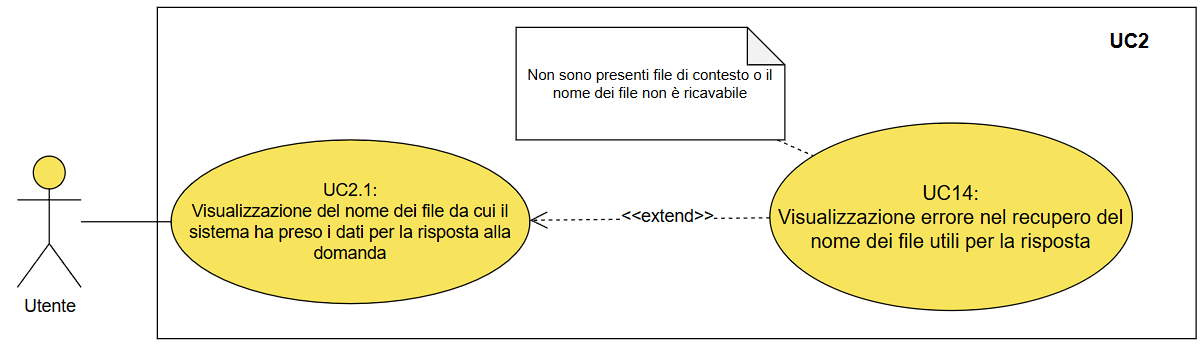
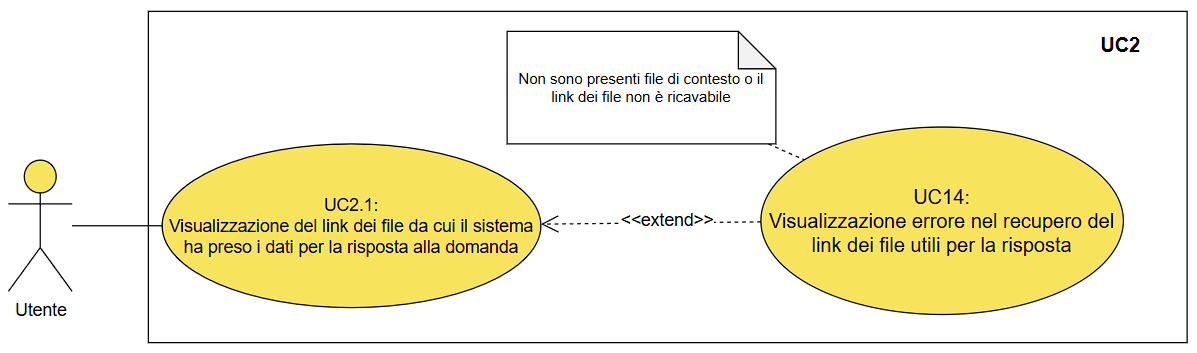
Inserita visualizzazione dei link dei file invece che del nome dei file

diff --git a/src/PB/Documentazione esterna/Analisi dei Requisiti/contenuti/casi_uso.tex b/src/PB/Documentazione esterna/Analisi dei Requisiti/contenuti/casi_uso.tex
@@ -166,7 +166,7 @@ L’applicazione prevede la presenza di due \emph{Attori}\textsubscript{\textbf{
     \end{enumerate}
     \item \textbf{Sottocasi d'uso}:
     \begin{itemize}
-        \item \bulhyperlink{UC2.1}{UC2.1}: Visualizzazione del nome dei file da cui il sistema ha preso i dati per la risposta alla domanda.
+        \item \bulhyperlink{UC2.1}{UC2.1}: Visualizzazione del link dei file da cui il sistema ha preso i dati per la risposta alla domanda.
     \end{itemize}
     \item \textbf{Scenario alternativo}:
     \begin{enumerate}
@@ -238,49 +238,49 @@ L’applicazione prevede la presenza di due \emph{Attori}\textsubscript{\textbf{
 \newpage
 
 \hypertarget{UC2.1}{}
-\subsubsection{UC2.1: Visualizzazione del nome dei file da cui il sistema ha preso i dati per la risposta alla domanda}
+\subsubsection{UC2.1: Visualizzazione del link dei file da cui il sistema ha preso i dati per la risposta alla domanda}
 
 \begin{figure}[h]
     \centering
     \includegraphics[width=\textwidth]{UC2.1 + UC14.png}
-    \caption{Visualizzazione del nome dei file da cui il sistema ha preso i dati per la risposta alla domanda}
+    \caption{Visualizzazione del link dei file da cui il sistema ha preso i dati per la risposta alla domanda}
 \end{figure}
 
 \begin{itemize}
     \item \textbf{Attori principali}: Utente;
     \item \textbf{Precondizioni}: L'utente ha visualizzato la risposta generata;
-    \item \textbf{Trigger}: L'utente desidera visualizzare il nome dei file da cui il sistema ha preso i dati per la risposta alla domanda;
-    \item \textbf{Postcondizioni}: L'utente visualizza il nome dei file da cui il sistema ha preso i dati per la risposta alla domanda;
+    \item \textbf{Trigger}: L'utente desidera visualizzare il link dei file da cui il sistema ha preso i dati per la risposta alla domanda;
+    \item \textbf{Postcondizioni}: L'utente visualizza il link dei file da cui il sistema ha preso i dati per la risposta alla domanda;
     \item \textbf{Scenario principale}:
     \begin{enumerate}
         \item L'utente accede all'interfaccia dell'applicazione;
         \item \bulhyperlink{UC1}{UC1}: L'utente inserisce un'interrogazione in linguaggio naturale;
         \item \bulhyperlink{UC2}{UC2}: L'utente visualizza la risposta generata;
-        \item Il sistema recupera il nome dei file da cui è stata generata la risposta;
-        \item L'utente visualizza il nome dei file da cui il sistema ha preso i dati per la risposta alla domanda.
+        \item Il sistema recupera il link dei file da cui è stata generata la risposta;
+        \item L'utente visualizza il link dei file da cui il sistema ha preso i dati per la risposta alla domanda.
     \end{enumerate}
     \item \textbf{Scenario alternativo}:
     \begin{enumerate}
-        \item \bulhyperlink{UC14}{UC14}: Visualizzazione errore nel recupero del nome dei file utili per la risposta.
+        \item \bulhyperlink{UC14}{UC14}: Visualizzazione errore nel recupero del link dei file utili per la risposta.
     \end{enumerate}
 \end{itemize}
 
 \hypertarget{UC14}{}
-\subsubsection{UC14: Visualizzazione errore nel recupero del nome dei file utili per la risposta}
+\subsubsection{UC14: Visualizzazione errore nel recupero del link dei file utili per la risposta}
 \begin{itemize}
     \item \textbf{Attori principali}: Utente;
     \item \textbf{Precondizioni}: L'utente ha visualizzato la risposta generata;
-    \item \textbf{Trigger}: L'utente desidera visualizzare il nome dei file da cui il sistema ha preso i dati per la risposta alla domanda;
+    \item \textbf{Trigger}: L'utente desidera visualizzare il link dei file da cui il sistema ha preso i dati per la risposta alla domanda;
     \item \textbf{Postcondizioni}: L'utente visualizza in fondo al messaggio di risposta una segnalazione di errore che comunica che non è
-    stato possibile rilevare il nome dei file da cui è stata ricavata la risposta;
+    stato possibile rilevare il link dei file da cui è stata ricavata la risposta;
     \item \textbf{Scenario principale}: 
     \begin{enumerate}
         \item L'utente accede all'interfaccia dell'applicazione;
         \item \bulhyperlink{UC1}{UC1}: L'utente inserisce un'interrogazione in linguaggio naturale;
         \item \bulhyperlink{UC2}{UC2}: L'utente visualizza la risposta generata;
-        \item Il sistema non riesce a rilevare il nome dei file da cui ha generato la risposta;
+        \item Il sistema non riesce a recuperare il link dei file da cui ha generato la risposta;
         \item L'utente visualizza in fondo al messaggio di risposta una segnalazione di errore che comunica che non è stato possibile
-        rilevare il nome dei file da cui è stata ricavata la risposta.
+        rilevare il link dei file da cui è stata ricavata la risposta.
     \end{enumerate}
 \end{itemize}
 

diff --git a/src/PB/Documentazione esterna/Analisi dei Requisiti/contenuti/requisiti.tex b/src/PB/Documentazione esterna/Analisi dei Requisiti/contenuti/requisiti.tex
@@ -21,8 +21,8 @@ solida per la \emph{progettazione}\textsubscript{\textit{\textbf{G}}} del sistem
     ROF3 & Obbligatorio & Nel caso il sistema fallisca nel generare una risposta per via di un problema interno, deve far visualizzare all'utente un messaggio di errore, chiedendo di riprovare più tardi. & \bulhyperlink{UC2}{UC2}, \bulhyperlink{UC3}{UC3} \\ \hline
     ROF4 & Obbligatorio & Nel caso in cui l'utente inserisca un'interrogazione che non riguarda i contenuti del database associato, il sistema deve rispondere all'utente che la domanda inserita è fuori contesto. & \bulhyperlink{UC2}{UC2}, \bulhyperlink{UC4}{UC4} \\ \hline
     ROF5 & Obbligatorio & Nel caso il sistema non riesca a trovare le informazioni richieste dall'utente nonostante siano correlate al contesto, deve rispondere all'utente spiegando la mancanza dell'informazione richiesta. & \bulhyperlink{UC2}{UC2}, \bulhyperlink{UC5}{UC5} \\ \hline
-    ROF6 & Desiderabile & L'utente deve poter visualizzare i file da cui il sistema ha preso i dati per la risposta. &\bulhyperlink{UC2.1}{UC2.1} \\ \hline
-    RDF7 & Desiderabile & Nel caso l'utente desideri accedere ai file utilizzati per generare la risposta ma questo non sia possibile, deve essere visualizzato un messaggio di errore. &\bulhyperlink{UC14}{UC14} \\ \hline
+    ROF6 & Desiderabile & L'utente deve poter visualizzare i link dei file da cui il sistema ha preso i dati per la risposta. &\bulhyperlink{UC2.1}{UC2.1} \\ \hline
+    RDF7 & Desiderabile & Nel caso non sia possibile recuperare i link dei file utilizzati per generare la risposta, deve essere visualizzato un messaggio di errore. &\bulhyperlink{UC14}{UC14} \\ \hline
     \end{tabularx}
 \end{table}
 
